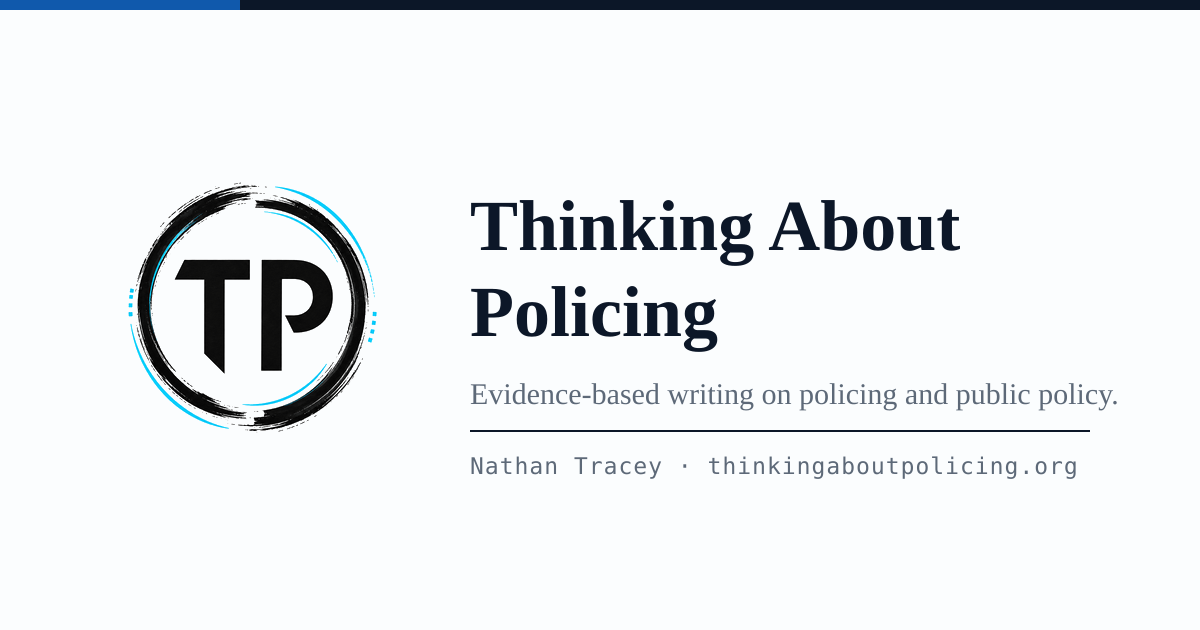
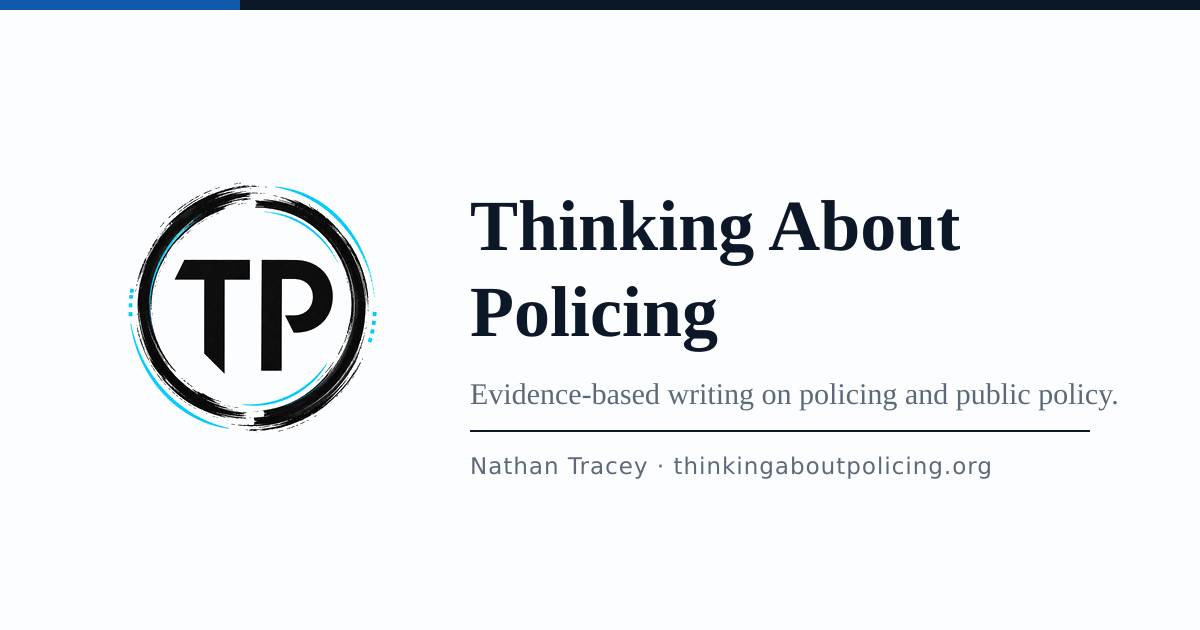
Drop the monospace face; set the label voice in the sans
The instrument voice was set in IBM Plex Mono on the theory that a fixed
pitch says "this is a reading, not a sentence". It doesn't earn that: at
11px a typewriter face is simply harder to read than a sans, and it made
ordinary metadata — a date, a section name, a source count — look like
terminal output on a site read by police officers and policy people rather
than developers.

The roles survive; the face does not. .u-eyebrow, .u-datum, .u-figure, the
chips, table headers, news chips, the takeaways label and the pull-quote
citation are all now tracked-out caps in the sans with tabular figures,
which was what was actually keeping columns aligned. Sizes and tracking
were retuned for the new face rather than inherited.

IBM Plex Sans goes with it, in favour of Source Sans 3: the sans half of
the superfamily the reading face already comes from, so a caption and the
paragraph under it agree by construction. Two families now instead of
three, and one fewer webfont to download — mono is used for exactly one
thing, code samples, and comes from the system stack.

With the mono gone, two of the four label classes differ only by colour and
tracking. The docs and the reference page say so rather than claiming four
typographic voices: four label roles, one face.

Claude-Session: https://claude.ai/code/session_01QxEdAyvVMMDg3S9XTwUQD9

Changed region(s): [[0.37, 0.7238, 0.8942, 0.754]]

diff --git a/src/styles/global.css b/src/styles/global.css
@@ -3,10 +3,15 @@
 @tailwind utilities;
 
 /* Fonts are self-hosted (Fontsource), imported in BaseLayout.astro:
-   IBM Plex Sans Variable (UI, display, metadata), Source Serif 4 Variable
-   (reading), IBM Plex Mono 400/600 (data chrome — figures, labels, IDs,
-   code). Plex sans+mono share a skeleton, so a table of numbers and the
-   label above it read as one instrument; the serif carries the argument. */
+   Source Sans 3 Variable (UI, display, labels, figures) and Source Serif 4
+   Variable (reading). One superfamily, drawn together, so a caption and the
+   paragraph under it agree without any tuning.
+
+   There is no monospace webfont. The instrument voice below — labels, dates,
+   readings, figures — is set in the sans with tabular figures instead: a
+   typewriter face is harder to read at 11px, and it made ordinary metadata
+   look like terminal output. Only code samples use mono, from the system
+   stack, which is the one place the fixed pitch is the point. */
 
 /* ------------------------------------------------------------------ */
 /* "Blue Book" design system.                                          */
@@ -227,11 +232,19 @@ html.dark {
 
 @layer components {
   /* ---------------------------------------------------------------- */
-  /* MICROTYPE — the two small voices.                                 */
+  /* MICROTYPE — one label face, four roles.                           */
+  /*                                                                    */
+  /* All four are the sans. What separates them is colour, position and */
+  /* whether figures are tabular — not typeface. An earlier draft set   */
+  /* the data roles in a monospace to make the distinction visible at a */
+  /* glance; it cost more legibility at 11px than it bought, so the     */
+  /* roles stay and the typewriter went. Use the class rather than      */
+  /* re-deriving these values inline — that is what keeps the site      */
+  /* speaking one language on pages nobody has redesigned.              */
   /* ---------------------------------------------------------------- */
 
-  /* The eyebrow/label voice — section labels, card kickers, standfirst
-     labels. Editorial chrome, so it stays in the sans. */
+  /* Editorial chrome, in the accent — section labels, card kickers,
+     standfirst labels. */
   .u-kicker {
     font-family: theme('fontFamily.sans');
     font-size: 0.7rem;
@@ -247,13 +260,14 @@ html.dark {
 
   /* The instrument voice — anything a machine produced or a reader might
      check: figures, dates on data pages, force codes, source counts, filter
-     state, units. Mono, because the point is that it is a reading and not a
-     sentence. Never use it for prose or for a section title. */
+     state, units. Uppercase and tracked, with tabular figures, so it reads as
+     a reading rather than a sentence. Never use it for prose or a section
+     title. */
   .u-datum {
-    font-family: theme('fontFamily.mono');
+    font-family: theme('fontFamily.sans');
     font-size: 0.68rem;
-    font-weight: 500;
-    letter-spacing: 0.06em;
+    font-weight: 600;
+    letter-spacing: 0.1em;
     text-transform: uppercase;
     font-variant-numeric: tabular-nums;
     color: rgb(var(--ink-600));
@@ -271,10 +285,10 @@ html.dark {
     display: flex;
     align-items: center;
     gap: 0.75rem;
-    font-family: theme('fontFamily.mono');
-    font-size: 0.68rem;
-    font-weight: 500;
-    letter-spacing: 0.06em;
+    font-family: theme('fontFamily.sans');
+    font-size: 0.7rem;
+    font-weight: 600;
+    letter-spacing: 0.12em;
     text-transform: uppercase;
     font-variant-numeric: tabular-nums;
     color: rgb(var(--ink-600));
@@ -289,10 +303,10 @@ html.dark {
 
   /* A figure printed at size — the number in a stat, a count, a delta. */
   .u-figure {
-    font-family: theme('fontFamily.mono');
+    font-family: theme('fontFamily.sans');
     font-weight: 600;
     font-variant-numeric: tabular-nums;
-    letter-spacing: -0.01em;
+    letter-spacing: -0.015em;
     color: rgb(var(--ink-900));
   }
 
@@ -468,11 +482,11 @@ html.dark {
     display: inline-flex;
     align-items: center;
     gap: 0.35rem;
-    font-family: theme('fontFamily.mono');
-    font-size: 0.6875rem;
-    font-weight: 500;
-    letter-spacing: 0.02em;
-    padding: 0.25rem 0.5rem;
+    font-family: theme('fontFamily.sans');
+    font-size: 0.72rem;
+    font-weight: 600;
+    letter-spacing: 0.01em;
+    padding: 0.25rem 0.55rem;
     border-radius: var(--r1);
     background-color: rgb(var(--paper-200));
     border: 1px solid rgb(var(--ink-200));
@@ -853,10 +867,10 @@ html.dark {
 
   /* The header takes the site's structural 2px rule, and the label voice. */
   .prose-article table.data-table thead th {
-    font-family: theme('fontFamily.mono');
-    font-size: 0.68rem;
-    font-weight: 600;
-    letter-spacing: 0.06em;
+    font-family: theme('fontFamily.sans');
+    font-size: 0.7rem;
+    font-weight: 700;
+    letter-spacing: 0.09em;
     text-transform: uppercase;
     color: rgb(var(--ink-600));
     white-space: nowrap;
@@ -1045,7 +1059,6 @@ html.dark {
   min-width: 26px;
   padding: 5px 7px;
   border-radius: var(--r1);
-  font-family: theme('fontFamily.mono');
   background: var(--smce-control);
   border: 1px solid var(--smce-line);
   font-weight: 600;
@@ -1060,7 +1073,7 @@ html.dark {
 .smce-bottom { padding: 10px 12px; }
 .smce-kv { display: flex; justify-content: space-between; gap: 10px; align-items: baseline; margin: 3px 0; }
 .smce-k { color: var(--smce-muted); font-weight: 600; font-size: 12px; }
-.smce-v { color: var(--smce-text); font-family: theme('fontFamily.mono'); font-weight: 600; font-size: 12px; text-align: right; font-variant-numeric: tabular-nums; }
+.smce-v { color: var(--smce-text); font-weight: 600; font-size: 12px; text-align: right; font-variant-numeric: tabular-nums; }
 
 .smce-progress {
   margin-top: 8px;
@@ -1201,10 +1214,10 @@ html.dark {
 /* ------------------------------------------------------------------ */
 .news-chip {
   display: inline-block;
-  font-family: theme('fontFamily.mono');
-  font-size: 0.6rem;
-  font-weight: 600;
-  letter-spacing: 0.06em;
+  font-family: theme('fontFamily.sans');
+  font-size: 0.62rem;
+  font-weight: 700;
+  letter-spacing: 0.08em;
   text-transform: uppercase;
   padding: 0.1rem 0.4rem;
   border-radius: var(--r1);

diff --git a/docs/design/blue-book.md b/docs/design/blue-book.md
@@ -118,29 +118,43 @@ Two details are worth keeping:
 Cards press back down on `:active` — the shadow shrinks rather than
 disappearing — so a click feels attached to the page.
 
-## 5. Type: three faces, three jobs
+## 5. Type: one superfamily, two jobs
 
 | Face | Job |
 |---|---|
-| **IBM Plex Sans** (variable, self-hosted) | The institution: nav, headlines, card titles, buttons |
-| **IBM Plex Mono** (400/600) | The instruments: figures, dates, IDs, filter state, source counts, code |
-| **Source Serif 4** (variable) | The argument: article bodies, standfirsts, pull quotes |
+| **Source Sans 3** (variable, self-hosted) | The institution *and* its instruments: nav, headlines, card titles, buttons, and every label, date and figure |
+| **Source Serif 4** (variable, self-hosted) | The argument: article bodies, standfirsts, pull quotes |
 
 Plus Jakarta Sans was replaced because it is a geometric-humanist face that
-reads as a product-marketing site. Plex was drawn for technical documentation
-by a technology company, and its sans and mono share a skeleton — so a table
-of numbers and the label above it read as one instrument rather than two
-fonts that happen to be adjacent.
+reads as a product-marketing site. Source Sans 3 is plain and quiet, and it is
+the sans half of the superfamily the site's reading face already comes from —
+so a caption and the paragraph under it agree by construction rather than by
+tuning.
 
-Four label voices, one class each. Using them is what carries the language
-into pages nobody redesigned:
+**There is no monospace webfont.** An earlier draft of this system set the
+instrument voice in IBM Plex Mono, on the theory that a fixed pitch says "this
+is a reading, not a sentence". In practice it was harder to read at 11px, and
+it made ordinary metadata — a date, a section name, a source count — look like
+terminal output, on a site whose readers are police officers and policy people
+rather than developers. The voice survives; the face does not. Labels are
+tracked-out uppercase in the sans, and every figure carries `tabular-nums`,
+which is what was actually doing the work of keeping columns aligned.
+
+Mono is now used for exactly one thing — code samples — and comes from the
+system stack, so it costs no download.
+
+Four label *roles*, one face and one class each. With the mono gone they are
+separated by colour, position and tabular figures rather than by typeface —
+which is the honest description, and still enough to tell a section label from
+a reading. Using the class rather than re-deriving the values inline is what
+carries the language into pages nobody redesigned:
 
 | Class | Use |
 |---|---|
-| `.u-eyebrow` | Opens a page. Mono label led by a short accent rule. |
-| `.u-datum` | A reading: a date, a count, a state, a source. |
-| `.u-kicker` | Editorial chrome: section and card kickers. Stays sans. |
-| `.u-figure` | A number printed at size — a stat, a rank, a delta. |
+| `.u-eyebrow` | Opens a page. Tracked caps led by a short accent rule. |
+| `.u-datum` | A reading: a date, a count, a state, a source. Tracked caps, tabular figures. |
+| `.u-kicker` | Editorial chrome: section and card kickers. |
+| `.u-figure` | A number printed at size — a stat, a rank, a delta. Tabular figures. |
 
 ## 6. The furniture
 
@@ -153,7 +167,7 @@ into pages nobody redesigned:
   desk, which is the single change that gives the reading experience depth.
 - **`.btn` + `--primary/--secondary/--ghost/--night`** — one button grammar,
   replacing the pill-shaped buttons that were defined inline on twelve pages.
-- **`.chip`** — a filter, tag or source, in the mono voice.
+- **`.chip`** — a filter, tag or source, in the label voice.
 - **`.tile-blank`** — a card with no photograph gets the measured ground with
   its initial ghosted into it, rather than an empty rectangle. A grid of
   blank tiles is one of the things that made the card rows read as a
@@ -163,7 +177,7 @@ into pages nobody redesigned:
 
 Motion answers the pointer or reports a state change. Nothing animates at
 rest. The idle `soft-pulse` and the pulsing "live" dots were removed; "live"
-is now a mono readout that says what it is (`Live · refreshed on load`),
+is now a readout that says what it is (`Live · refreshed on load`),
 which is both more honest and more legible. Scroll reveal, the arrow nudge
 and the card lift all remain, all behind `prefers-reduced-motion`.
 
@@ -199,7 +213,7 @@ the part that decays:
 - `src/styles/global.css` — the token blocks, the component layer (surfaces,
   controls, label voices, `.rule-head`, `.grid-ground`, `.tile-blank`), prose
   restyling, the map explorer moved onto tokens, dead orb/pulse CSS deleted.
-- `tailwind.config.mjs` — Plex families, `canvas`/`rule`/`signal`/`flag`/
+- `tailwind.config.mjs` — the Source families, `canvas`/`rule`/`signal`/`flag`/
   `chart-*` colours, the `e1`–`e4` elevation scale, the four radii.
 - `src/layouts/BaseLayout.astro` — font imports, split light/dark
   `theme-color`.

diff --git a/docs/research-tools-roadmap.md b/docs/research-tools-roadmap.md
@@ -81,7 +81,7 @@ The site cites heavily and nowhere can a reader see the whole body of
 evidence it draws on. One page listing every study, report and dataset cited
 anywhere, with which articles use it, generated from existing citations.
 Cheap, genuinely useful to a researcher, and a quiet authority signal almost
-no site offers. In the Blue Book it is a ruled table in the mono voice, with
+no site offers. In the Blue Book it is a ruled table in the label voice, with
 `.chip` filters by source type.
 
 ***Small build, distinctive.***
